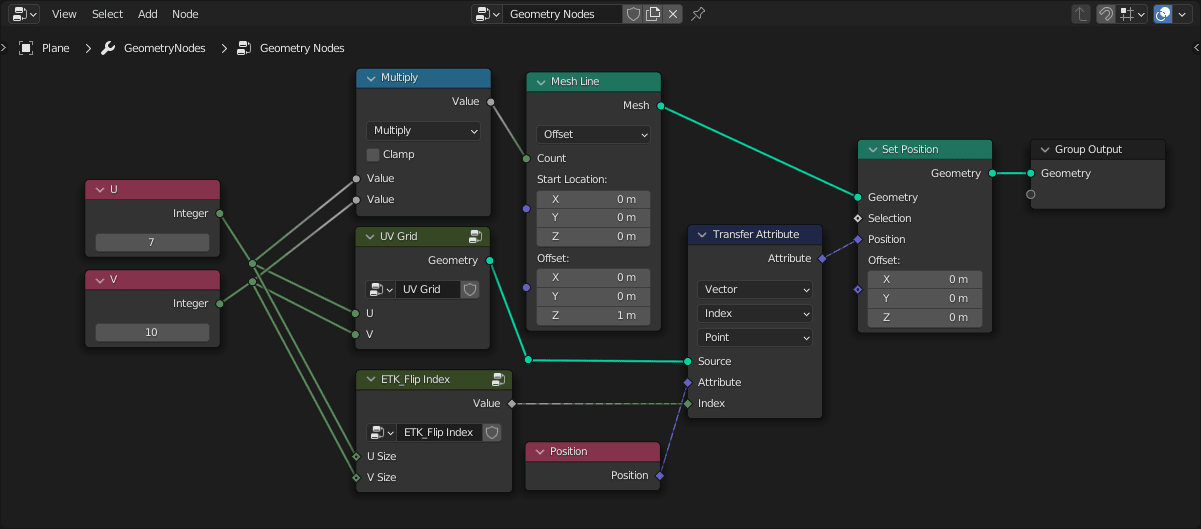
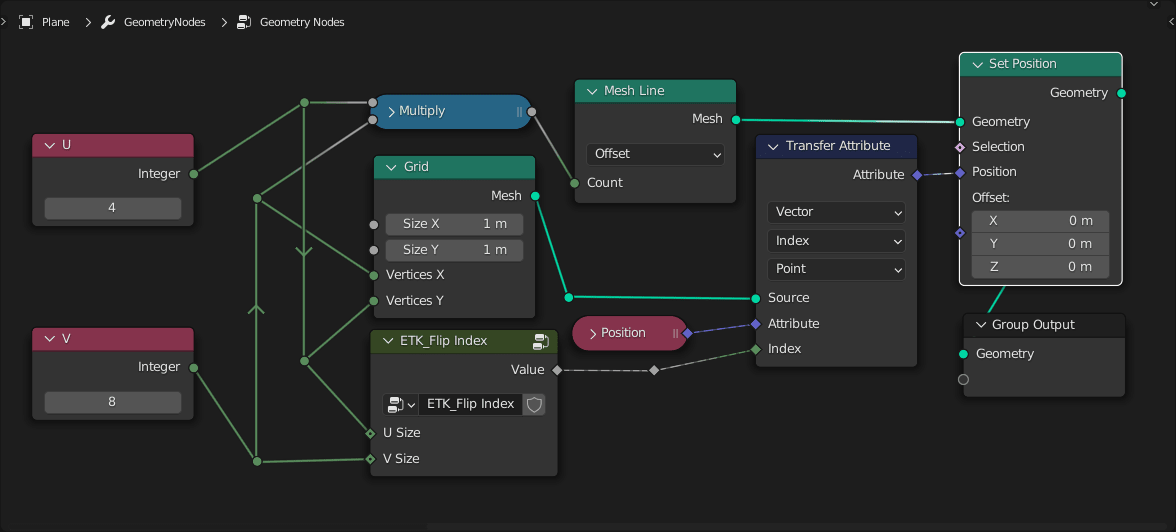
Flip Index page completed.

diff --git a/ref_manual/nodes/fields/flip_index.rst b/ref_manual/nodes/fields/flip_index.rst
@@ -10,7 +10,8 @@
 
    The ETK_Flip Index node.
 
-The *Flip Index* group is used to modify the dimensions of a 2D area.
+The *Flip Index* group provides a mechanism to alter the order of indices
+in a 2D area.
 
 
 Inputs
@@ -35,40 +36,30 @@ Examples
 
 .. rubric:: Flipping grid indices
 
-This example tracks the
+This example partially tracks the
 `Flip Index video tutorial <https://www.youtube.com/watch?v=9MmLXVx5yf8>`_
-that was created specifically for this node group.
-
-The first step is to create a simple grid that can be used to make our
-explanation easier. This custom node group we'll call **UV
-Grid** that will take a horizontal (U) dimension and vertical (V)
-dimension and lay the indices out along X and Y. Each cell in our UV grid
-will be :math:`1 \times 1` blender units.
-
-.. figure:: /images/nodes-flip_grid.png
-   :align: center
-   :width: 800
-
-   The **UV Grid** node group.
+that was created specifically for this node group. In this example a
+simple Grid mesh primitive is used.
 
 If a mesh line is provided with a resolution matching the number of
-vertices in this UV grid, and the position of the vertices in the grid
-are set, in order of the indices, to the line, the index sequence of the
-vertices will be apparent.
+vertices in this grid, and the position of the vertices in the grid
+are transfered to the grid in index order, the index sequence
+of the vertices will be apparent.
 
-.. figure:: /images/nodes-uv_flip_comp.png
+.. figure:: /images/nodes-flip_index_basic_comp.png
    :align: center
 
-   Before and after flipping.
+   The :math:`4 \times 8` grid, with a mesh line showing before and
+   after flipping.
 
 In the node network for this, U and V are separated into input values
 that can be used to determine the count of our target mesh line, the
-size of the **UV Grid**, and provide the inputs to the **Flip Index**
-group. A **Transfer Attribute** node is used to set the flipped
+size of the **Grid**, and the inputs to the **Flip Index**
+group. A **Transfer Attribute** node is used to transfer the flipped
 positions to the mesh line.
 
 .. figure:: /images/nodes-flip_index_basic.png
    :align: center
    :width: 800
 
-   The **Flip Index** group is used to flip a grid's UV dimension.
+   The **Flip Index** group is used to flip indices on a grid.
